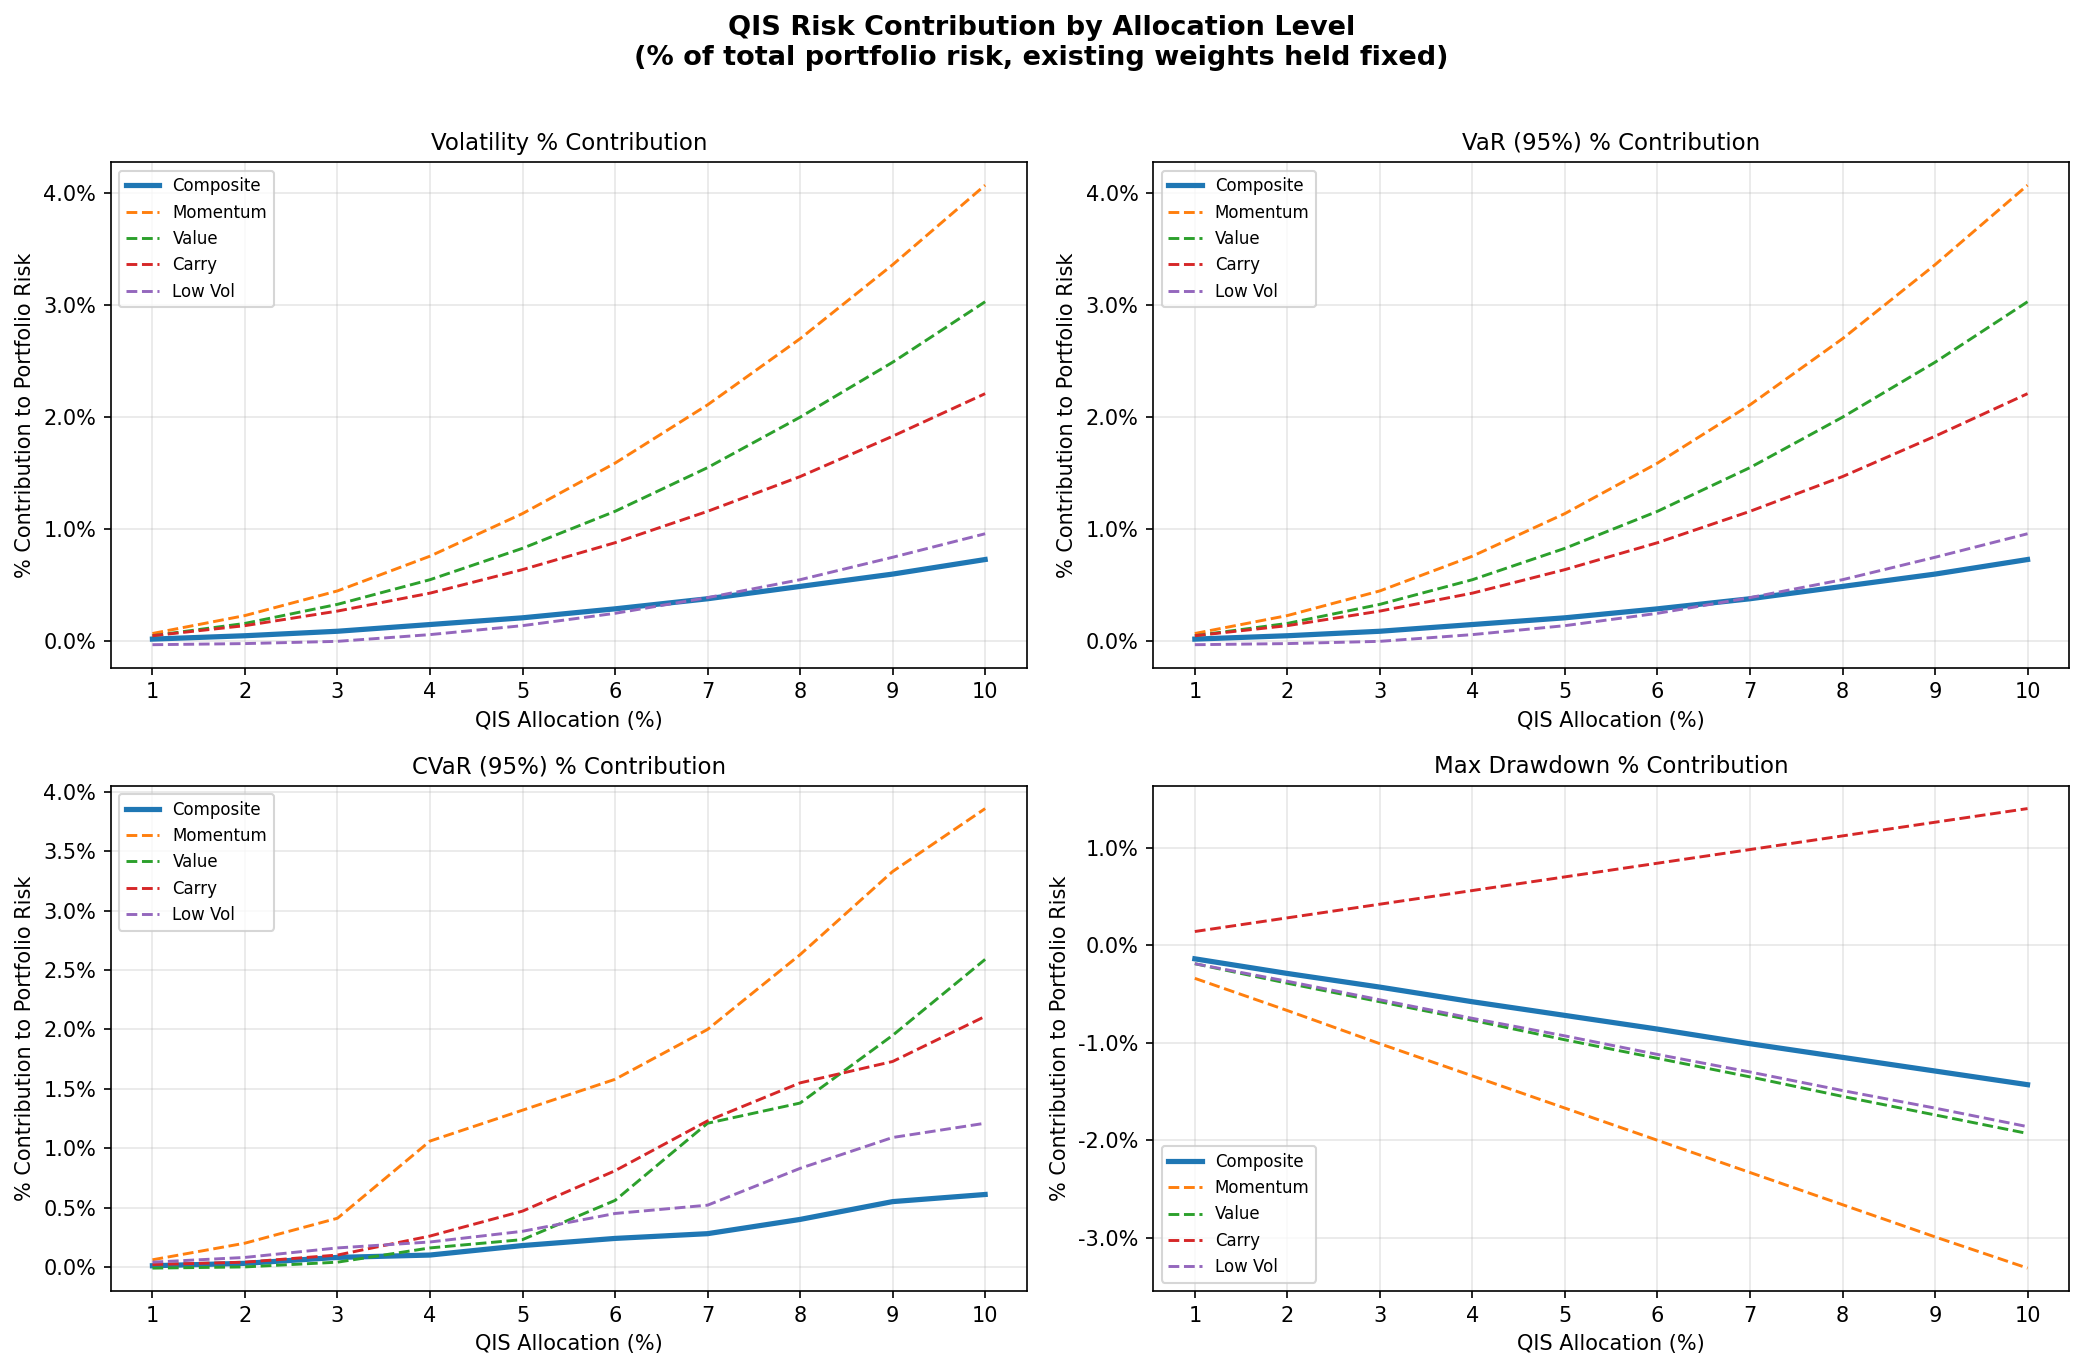
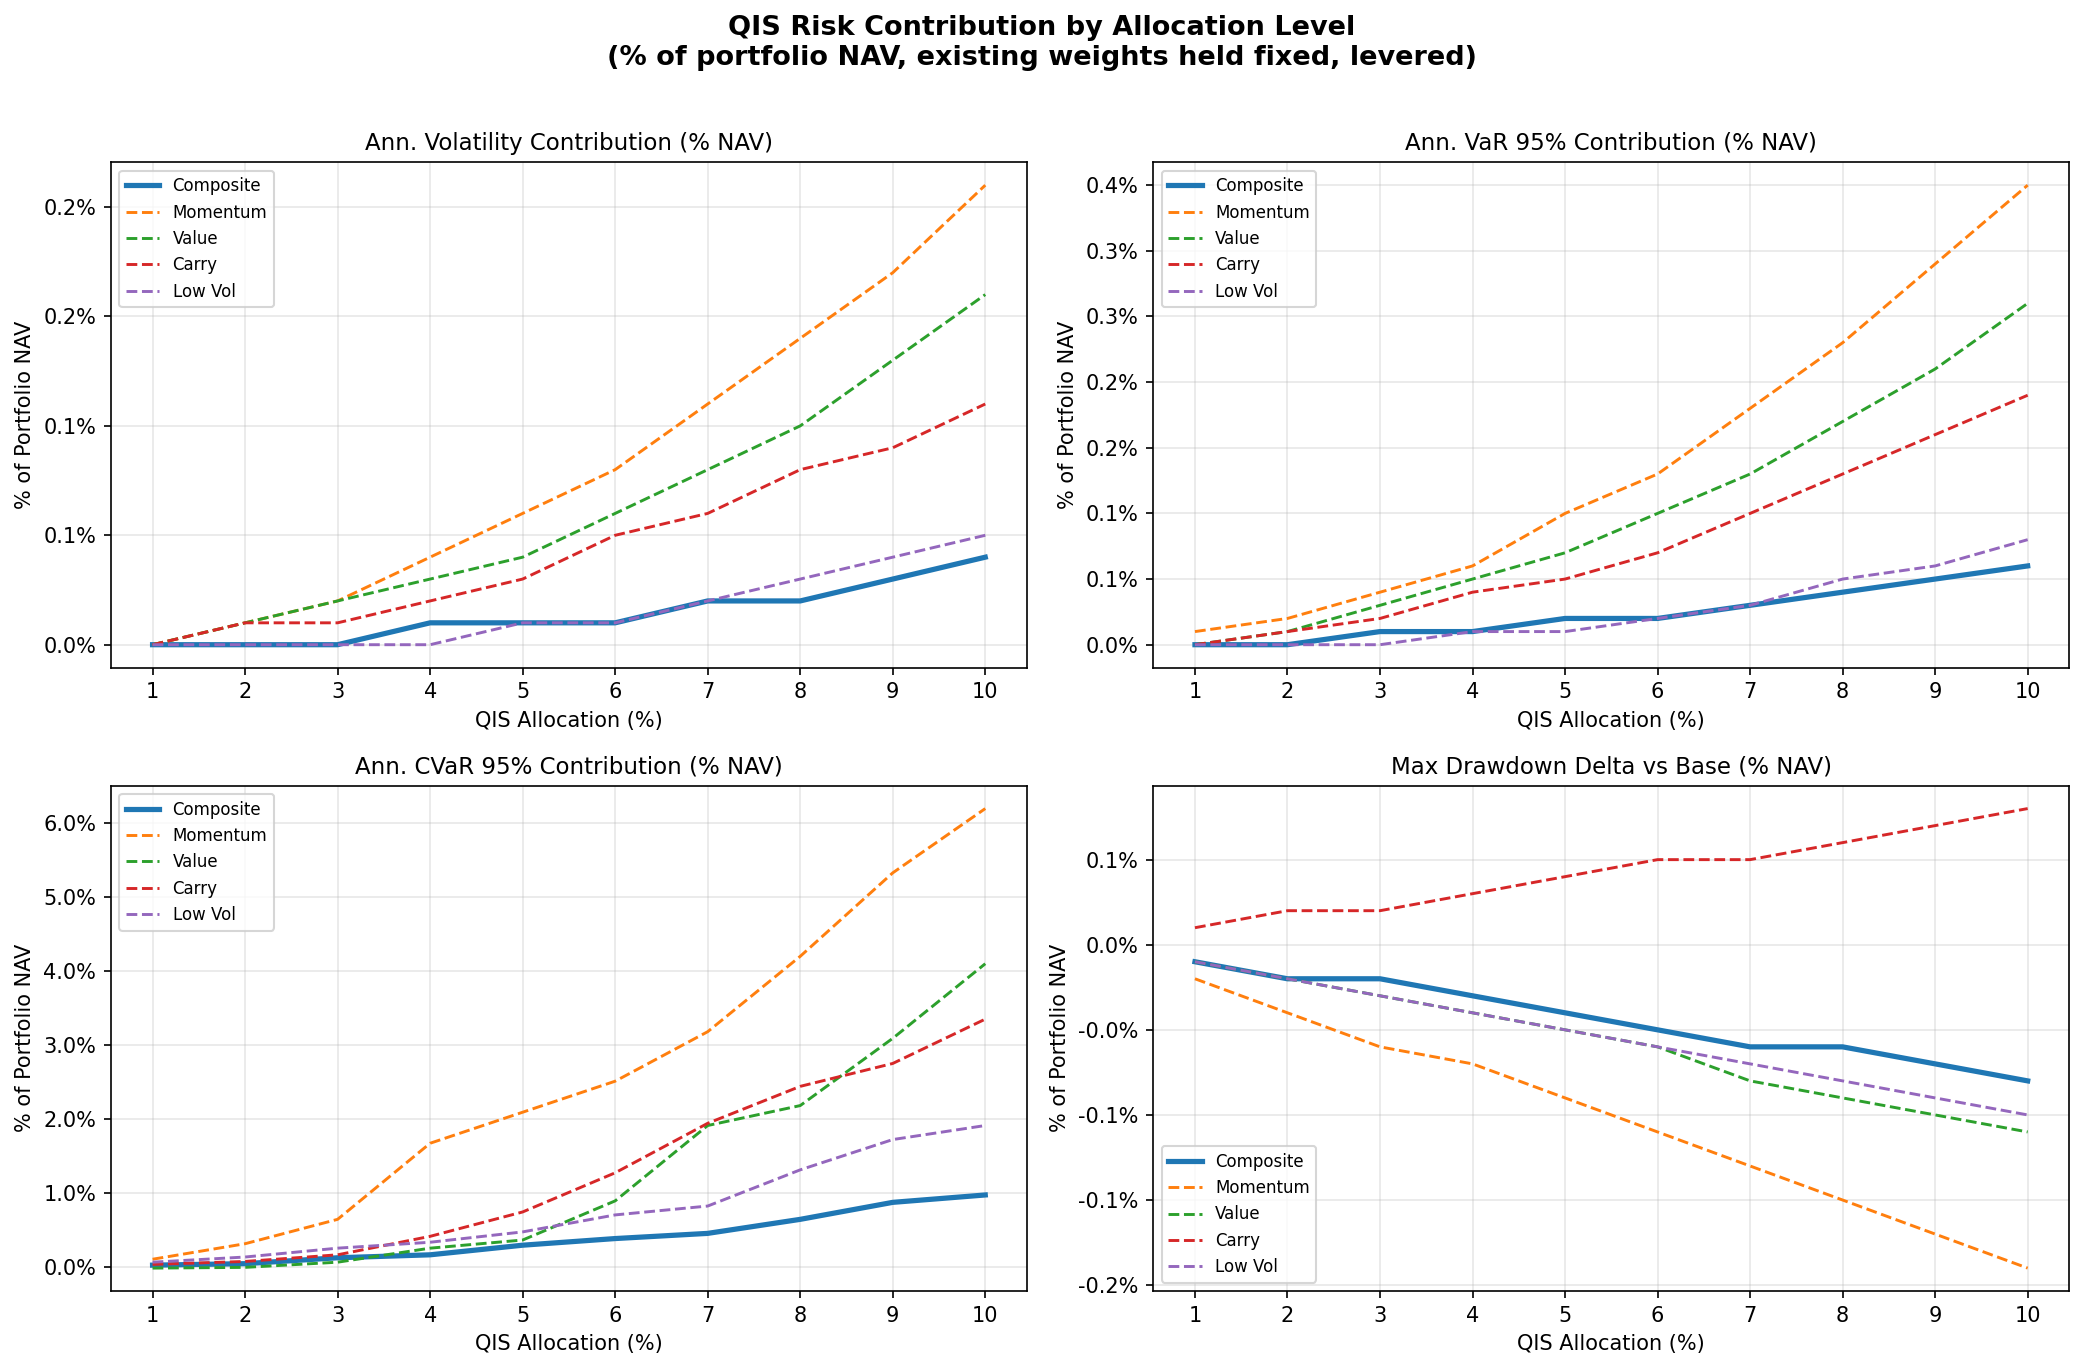
change to % NAV

diff --git a/QIS Repository/01_risk_contribution/qis_risk_contribution.py b/QIS Repository/01_risk_contribution/qis_risk_contribution.py
@@ -3,13 +3,13 @@ qis_risk_contribution.py
 ------------------------
 Analyses the theoretical risk contribution of adding a QIS strategy
 (composite + 4 substrategies) to an existing portfolio at allocation
-levels of 1–10% (levered: existing weights held fixed).
+levels of 1-10% (levered: existing weights held fixed).
 
-Metrics (all expressed as % contribution to total portfolio risk):
-  - Annualised Volatility  : Euler decomposition  RC_i = w_i * (Σw)_i / (w'Σw)
-  - VaR 95%               : Euler decomposition on sample covariance
-  - CVaR 95%              : average loss beyond VaR threshold
-  - Max Drawdown          : blended portfolio DD vs base portfolio DD (delta)
+Metrics (all expressed as % of portfolio NAV):
+  - Annualised Volatility  : Euler RC_i = w_i*(Cov*w)_i/port_vol * sqrt(252)
+  - Annualised VaR 95%     : z_0.95 * daily vol RC * sqrt(252)
+  - Annualised CVaR 95%    : -E[w_i*r_i | tail] * 252  (daily CVaR scaled)
+  - Max Drawdown delta     : change in peak-to-trough DD vs base portfolio
 
 Outputs:
   - Printed summary tables per QIS series
@@ -69,42 +69,43 @@ def annualised_vol(port_r: np.ndarray) -> float:
 
 def euler_vol_contribution(cov: np.ndarray, weights: np.ndarray) -> np.ndarray:
     """
-    Euler decomposition of volatility.
-    RC_i = w_i * (Σw)_i / sqrt(w'Σw)
-    Returns array of % contributions summing to 1.
+    Euler decomposition of annualised volatility as % of NAV.
+    RC_i = w_i * (Cov*w)_i / port_vol * sqrt(252)
+    Returns absolute annualised contribution per asset (sums to portfolio vol).
     """
-    sigma_w   = cov @ weights
-    port_var  = weights @ sigma_w
-    port_vol  = np.sqrt(port_var)
-    rc        = weights * sigma_w / port_vol        # absolute RC (daily)
-    return rc / rc.sum()                            # % contribution
+    sigma_w  = cov @ weights
+    port_var = weights @ sigma_w
+    port_vol = np.sqrt(port_var)
+    rc_daily = weights * sigma_w / port_vol         # daily absolute RC
+    return rc_daily * np.sqrt(TRADING_DAYS)         # annualised, % of NAV
 
 
 def euler_var_contribution(cov: np.ndarray, weights: np.ndarray, alpha: float = CONFIDENCE) -> np.ndarray:
     """
-    Euler decomposition of Gaussian VaR.
-    Under normality, VaR_alpha = z_alpha * sigma, so the decomposition
-    is identical in % terms to the vol decomposition.
+    Euler decomposition of annualised VaR as % of NAV.
+    VaR_i = z_alpha * daily_vol_RC_i * sqrt(252)
     """
     from scipy.stats import norm
-    # % contributions are the same as vol under normality
-    return euler_vol_contribution(cov, weights)
+    z        = norm.ppf(alpha)
+    sigma_w  = cov @ weights
+    port_var = weights @ sigma_w
+    port_vol = np.sqrt(port_var)
+    rc_daily = weights * sigma_w / port_vol
+    return z * rc_daily * np.sqrt(TRADING_DAYS)
 
 
 def cvar_contribution(ret_matrix: np.ndarray, weights: np.ndarray, alpha: float = CONFIDENCE) -> np.ndarray:
     """
-    % CVaR contribution via component CVaR.
-    Component CVaR_i = E[r_i | portfolio return <= VaR threshold].
-    Scaled so contributions sum to 1.
+    Component CVaR as % of NAV (annualised).
+    Component CVaR_i = -E[w_i * r_i | portfolio return <= VaR threshold] * 252
+    Positive = loss contribution; sums to portfolio CVaR.
     """
     port_r    = ret_matrix @ weights
     threshold = np.quantile(port_r, 1 - alpha)
     tail_mask = port_r <= threshold
-
-    tail_contribs = (ret_matrix[tail_mask] * weights).mean(axis=0)  # E[w_i * r_i | tail]
-    # negate so losses are positive; then normalise
-    tail_contribs = -tail_contribs
-    return tail_contribs / tail_contribs.sum()
+    # daily component CVaR per asset
+    tail_contribs = (ret_matrix[tail_mask] * weights).mean(axis=0)
+    return -tail_contribs * TRADING_DAYS            # annualised loss as % of NAV
 
 
 def max_drawdown(r: np.ndarray) -> float:
@@ -117,15 +118,13 @@ def max_drawdown(r: np.ndarray) -> float:
 
 def qis_mdd_contribution(base_r: np.ndarray, blended_r: np.ndarray) -> float:
     """
-    QIS % contribution to max drawdown = delta in portfolio MDD
-    expressed as a fraction of the blended MDD.
+    QIS contribution to max drawdown as % of NAV.
+    = change in peak-to-trough drawdown vs base portfolio.
+    Negative = QIS worsens drawdown; positive = QIS reduces drawdown.
     """
     mdd_base    = max_drawdown(base_r)
     mdd_blended = max_drawdown(blended_r)
-    delta       = mdd_blended - mdd_base          # negative = worse DD
-    if mdd_blended == 0:
-        return 0.0
-    return delta / abs(mdd_blended)               # % of blended MDD attributable to QIS
+    return (mdd_blended - mdd_base)               # already % of NAV (e.g. -0.02 = -2%)
 
 
 # ── Core analysis ─────────────────────────────────────────────────────────────
@@ -157,28 +156,28 @@ def analyse_qis_series(
         # blended portfolio returns
         blended_r = portfolio_returns(ret_aug, w_aug)
 
-        # ── Vol contribution ──────────────────────────────────────────────────
-        pct_vol  = euler_vol_contribution(cov_aug, w_aug)
-        qis_vol  = pct_vol[-1] * 100
+        # ── Vol contribution (annualised % of NAV) ────────────────────────────
+        rc_vol   = euler_vol_contribution(cov_aug, w_aug)
+        qis_vol  = rc_vol[-1] * 100
 
-        # ── VaR contribution ──────────────────────────────────────────────────
-        pct_var  = euler_var_contribution(cov_aug, w_aug)
-        qis_var  = pct_var[-1] * 100
+        # ── VaR contribution (annualised % of NAV) ────────────────────────────
+        rc_var   = euler_var_contribution(cov_aug, w_aug)
+        qis_var  = rc_var[-1] * 100
 
-        # ── CVaR contribution ─────────────────────────────────────────────────
-        pct_cvar = cvar_contribution(ret_aug, w_aug)
-        qis_cvar = pct_cvar[-1] * 100
+        # ── CVaR contribution (annualised % of NAV) ───────────────────────────
+        rc_cvar  = cvar_contribution(ret_aug, w_aug)
+        qis_cvar = rc_cvar[-1] * 100
 
-        # ── MDD contribution ──────────────────────────────────────────────────
+        # ── MDD contribution (% of NAV, delta vs base) ────────────────────────
         qis_mdd  = qis_mdd_contribution(base_r, blended_r) * 100
 
         records.append({
-            "series":        series_name,
-            "allocation_pct": round(alloc * 100, 0),
-            "vol_contrib_pct":  round(qis_vol,  2),
-            "var_contrib_pct":  round(qis_var,  2),
-            "cvar_contrib_pct": round(qis_cvar, 2),
-            "mdd_contrib_pct":  round(qis_mdd,  2),
+            "series":           series_name,
+            "allocation_pct":   round(alloc * 100, 0),
+            "vol_contrib_nav":  round(qis_vol,  2),
+            "var_contrib_nav":  round(qis_var,  2),
+            "cvar_contrib_nav": round(qis_cvar, 2),
+            "mdd_contrib_nav":  round(qis_mdd,  2),
         })
 
     return pd.DataFrame(records)
@@ -186,10 +185,10 @@ def analyse_qis_series(
 
 # ── Plotting ──────────────────────────────────────────────────────────────────
 METRIC_LABELS = {
-    "vol_contrib_pct":  "Volatility % Contribution",
-    "var_contrib_pct":  "VaR (95%) % Contribution",
-    "cvar_contrib_pct": "CVaR (95%) % Contribution",
-    "mdd_contrib_pct":  "Max Drawdown % Contribution",
+    "vol_contrib_nav":  "Ann. Volatility Contribution (% NAV)",
+    "var_contrib_nav":  "Ann. VaR 95% Contribution (% NAV)",
+    "cvar_contrib_nav": "Ann. CVaR 95% Contribution (% NAV)",
+    "mdd_contrib_nav":  "Max Drawdown Delta vs Base (% NAV)",
 }
 
 SERIES_COLORS = {
@@ -205,7 +204,7 @@ def plot_results(all_results: pd.DataFrame):
     fig, axes = plt.subplots(2, 2, figsize=(14, 9))
     fig.suptitle(
         "QIS Risk Contribution by Allocation Level\n"
-        "(% of total portfolio risk, existing weights held fixed)",
+        "(% of portfolio NAV, existing weights held fixed, levered)",
         fontsize=13, fontweight="bold", y=1.01
     )
 
@@ -224,7 +223,7 @@ def plot_results(all_results: pd.DataFrame):
 
         ax.set_title(label, fontsize=11)
         ax.set_xlabel("QIS Allocation (%)")
-        ax.set_ylabel("% Contribution to Portfolio Risk")
+        ax.set_ylabel("% of Portfolio NAV")
         ax.xaxis.set_major_locator(mticker.MultipleLocator(1))
         ax.yaxis.set_major_formatter(mticker.FormatStrFormatter("%.1f%%"))
         ax.grid(True, alpha=0.3)
@@ -233,7 +232,7 @@ def plot_results(all_results: pd.DataFrame):
     plt.tight_layout()
     out_path = Path(__file__).parent / "qis_risk_contribution.png"
     plt.savefig(out_path, dpi=150, bbox_inches="tight")
-    print(f"\nChart saved → {out_path}")
+    print(f"\nChart saved -> {out_path}")
     plt.show()
 
 
@@ -241,7 +240,7 @@ def plot_results(all_results: pd.DataFrame):
 def main():
     print("Loading data...")
     tickers, base_weights, port_ret, qis_ret, overlap = load_data()
-    print(f"  Overlapping period : {overlap[0].date()} → {overlap[-1].date()}  ({len(overlap)} days)")
+    print(f"  Overlapping period : {overlap[0].date()} to {overlap[-1].date()}  ({len(overlap)} days)")
     print(f"  Portfolio tickers  : {tickers}")
     print(f"  Base portfolio sum : {base_weights.sum():.2f}\n")
 